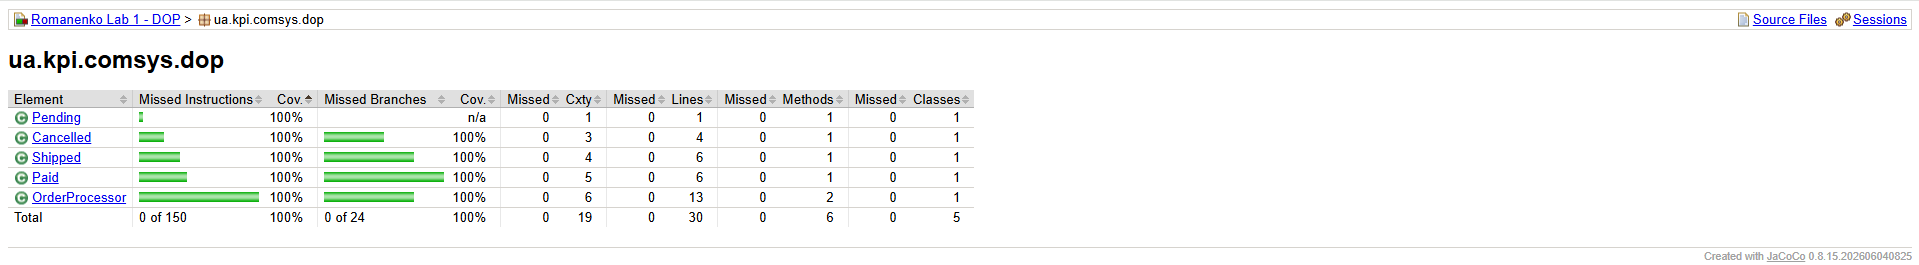
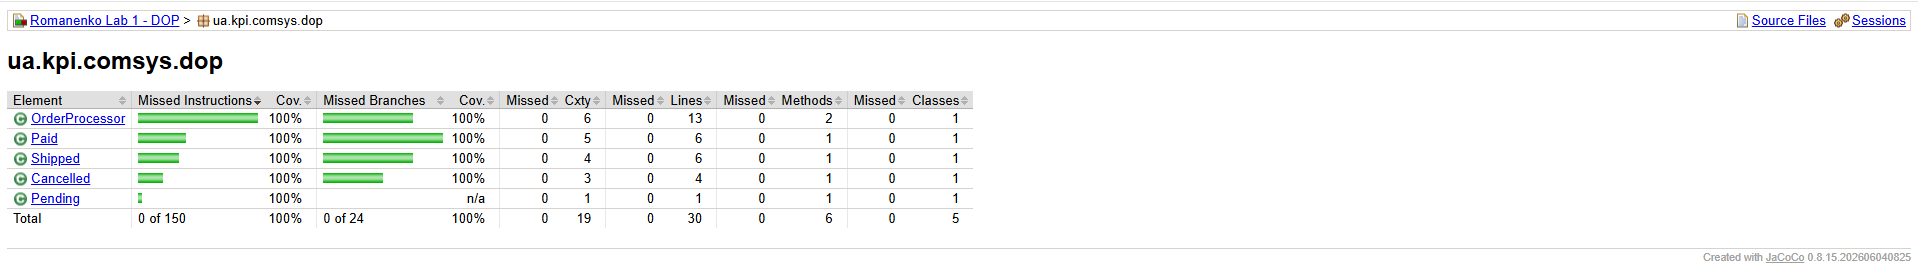
Покращено модульні тести, сумісність Java та документацію

diff --git a/src/test/java/ua/kpi/comsys/dop/PaidTest.java b/src/test/java/ua/kpi/comsys/dop/PaidTest.java
@@ -84,4 +84,60 @@ class PaidTest {
                 )
         );
     }
+
+    /**
+     * Перевірка граничних значень суми платежу.
+     *
+     * Мінімальна додатна сума повинна прийматися,
+     * а нульова та від'ємна — відхилятися.
+     */
+    @Test
+    void testAmountBoundaryValues() {
+        // Додатна сума є допустимою.
+        Paid paid = new Paid(
+                "PAY123",
+                new BigDecimal("0.01")
+        );
+
+        assertEquals(
+                new BigDecimal("0.01"),
+                paid.amount()
+        );
+
+        // Нульове та від'ємне значення недопустимі.
+        assertAll(
+                () -> assertThrows(
+                        IllegalArgumentException.class,
+                        () -> new Paid(
+                                "PAY123",
+                                new BigDecimal("0.00")
+                        )
+                ),
+                () -> assertThrows(
+                        IllegalArgumentException.class,
+                        () -> new Paid(
+                                "PAY123",
+                                new BigDecimal("-0.01")
+                        )
+                )
+        );
+    }
+
+    /**
+     * Перевірка ідентифікатора, який містить
+     * лише символи табуляції або нового рядка.
+     */
+    @Test
+    void testWhitespacePaymentId() {
+        assertAll(
+                () -> assertThrows(
+                        IllegalArgumentException.class,
+                        () -> new Paid("\t", BigDecimal.TEN)
+                ),
+                () -> assertThrows(
+                        IllegalArgumentException.class,
+                        () -> new Paid("\n", BigDecimal.TEN)
+                )
+        );
+    }
 }

diff --git a/src/test/java/ua/kpi/comsys/dop/PendingTest.java b/src/test/java/ua/kpi/comsys/dop/PendingTest.java
@@ -6,30 +6,29 @@ import org.junit.jupiter.api.Test;
 import static org.junit.jupiter.api.Assertions.*;
 
 /**
- * Модульні тести для запису Pending.
- *
- * Перевіряють створення статусу очікування
- * та його належність до ієрархії OrderStatus.
+ * Тести для запису Pending.
  */
 class PendingTest {
 
     /**
-     * Перевірка створення запису Pending.
+     * Два записи Pending без полів повинні бути рівними.
      */
     @Test
-    void testPendingCreation() {
-        Pending pending = new Pending();
+    void testPendingEquality() {
+        Pending first = new Pending();
+        Pending second = new Pending();
 
-        assertNotNull(pending);
+        assertEquals(first, second);
+        assertEquals(first.hashCode(), second.hashCode());
     }
 
     /**
-     * Перевірка реалізації інтерфейсу OrderStatus.
+     * Перевірка належності до OrderStatus.
      */
     @Test
     void testPendingImplementsOrderStatus() {
-        OrderStatus status = new Pending();
+        Pending pending = new Pending();
 
-        assertInstanceOf(Pending.class, status);
+        assertInstanceOf(OrderStatus.class, pending);
     }
 }

diff --git a/src/test/java/ua/kpi/comsys/dop/ShippedTest.java b/src/test/java/ua/kpi/comsys/dop/ShippedTest.java
@@ -79,4 +79,24 @@ class ShippedTest {
                 () -> new Shipped("TR12345", null)
         );
     }
+
+    /**
+     * Перевірка трек-номера, який містить
+     * лише символи табуляції або нового рядка.
+     */
+    @Test
+    void testWhitespaceTrackingCode() {
+        LocalDate date = LocalDate.of(2026, 10, 13);
+
+        assertAll(
+                () -> assertThrows(
+                        IllegalArgumentException.class,
+                        () -> new Shipped("\t", date)
+                ),
+                () -> assertThrows(
+                        IllegalArgumentException.class,
+                        () -> new Shipped("\n", date)
+                )
+        );
+    }
 }

diff --git a/src/test/java/ua/kpi/comsys/dop/CancelledTest.java b/src/test/java/ua/kpi/comsys/dop/CancelledTest.java
@@ -53,4 +53,22 @@ class CancelledTest {
                 )
         );
     }
+
+    /**
+     * Перевірка причини скасування, яка містить
+     * лише символи табуляції або нового рядка.
+     */
+    @Test
+    void testWhitespaceReason() {
+        assertAll(
+                () -> assertThrows(
+                        IllegalArgumentException.class,
+                        () -> new Cancelled("\t")
+                ),
+                () -> assertThrows(
+                        IllegalArgumentException.class,
+                        () -> new Cancelled("\n")
+                )
+        );
+    }
 }

diff --git a/README.md b/README.md
@@ -91,7 +91,7 @@ Romanenko_Lab1_java/
 
 ## Середовище та технології
 
-- **Java:** JDK 25; цільовий рівень компіляції — Java 23 (`maven.compiler.release=23`).
+- **Java:** JDK 25; цільовий рівень компіляції — Java 21 (`maven.compiler.release=21`).
 - **Система збирання:** Apache Maven.
 - **Тестування:** JUnit Jupiter 5.11.4.
 - **Покриття:** JaCoCo Maven Plugin 0.8.15.
